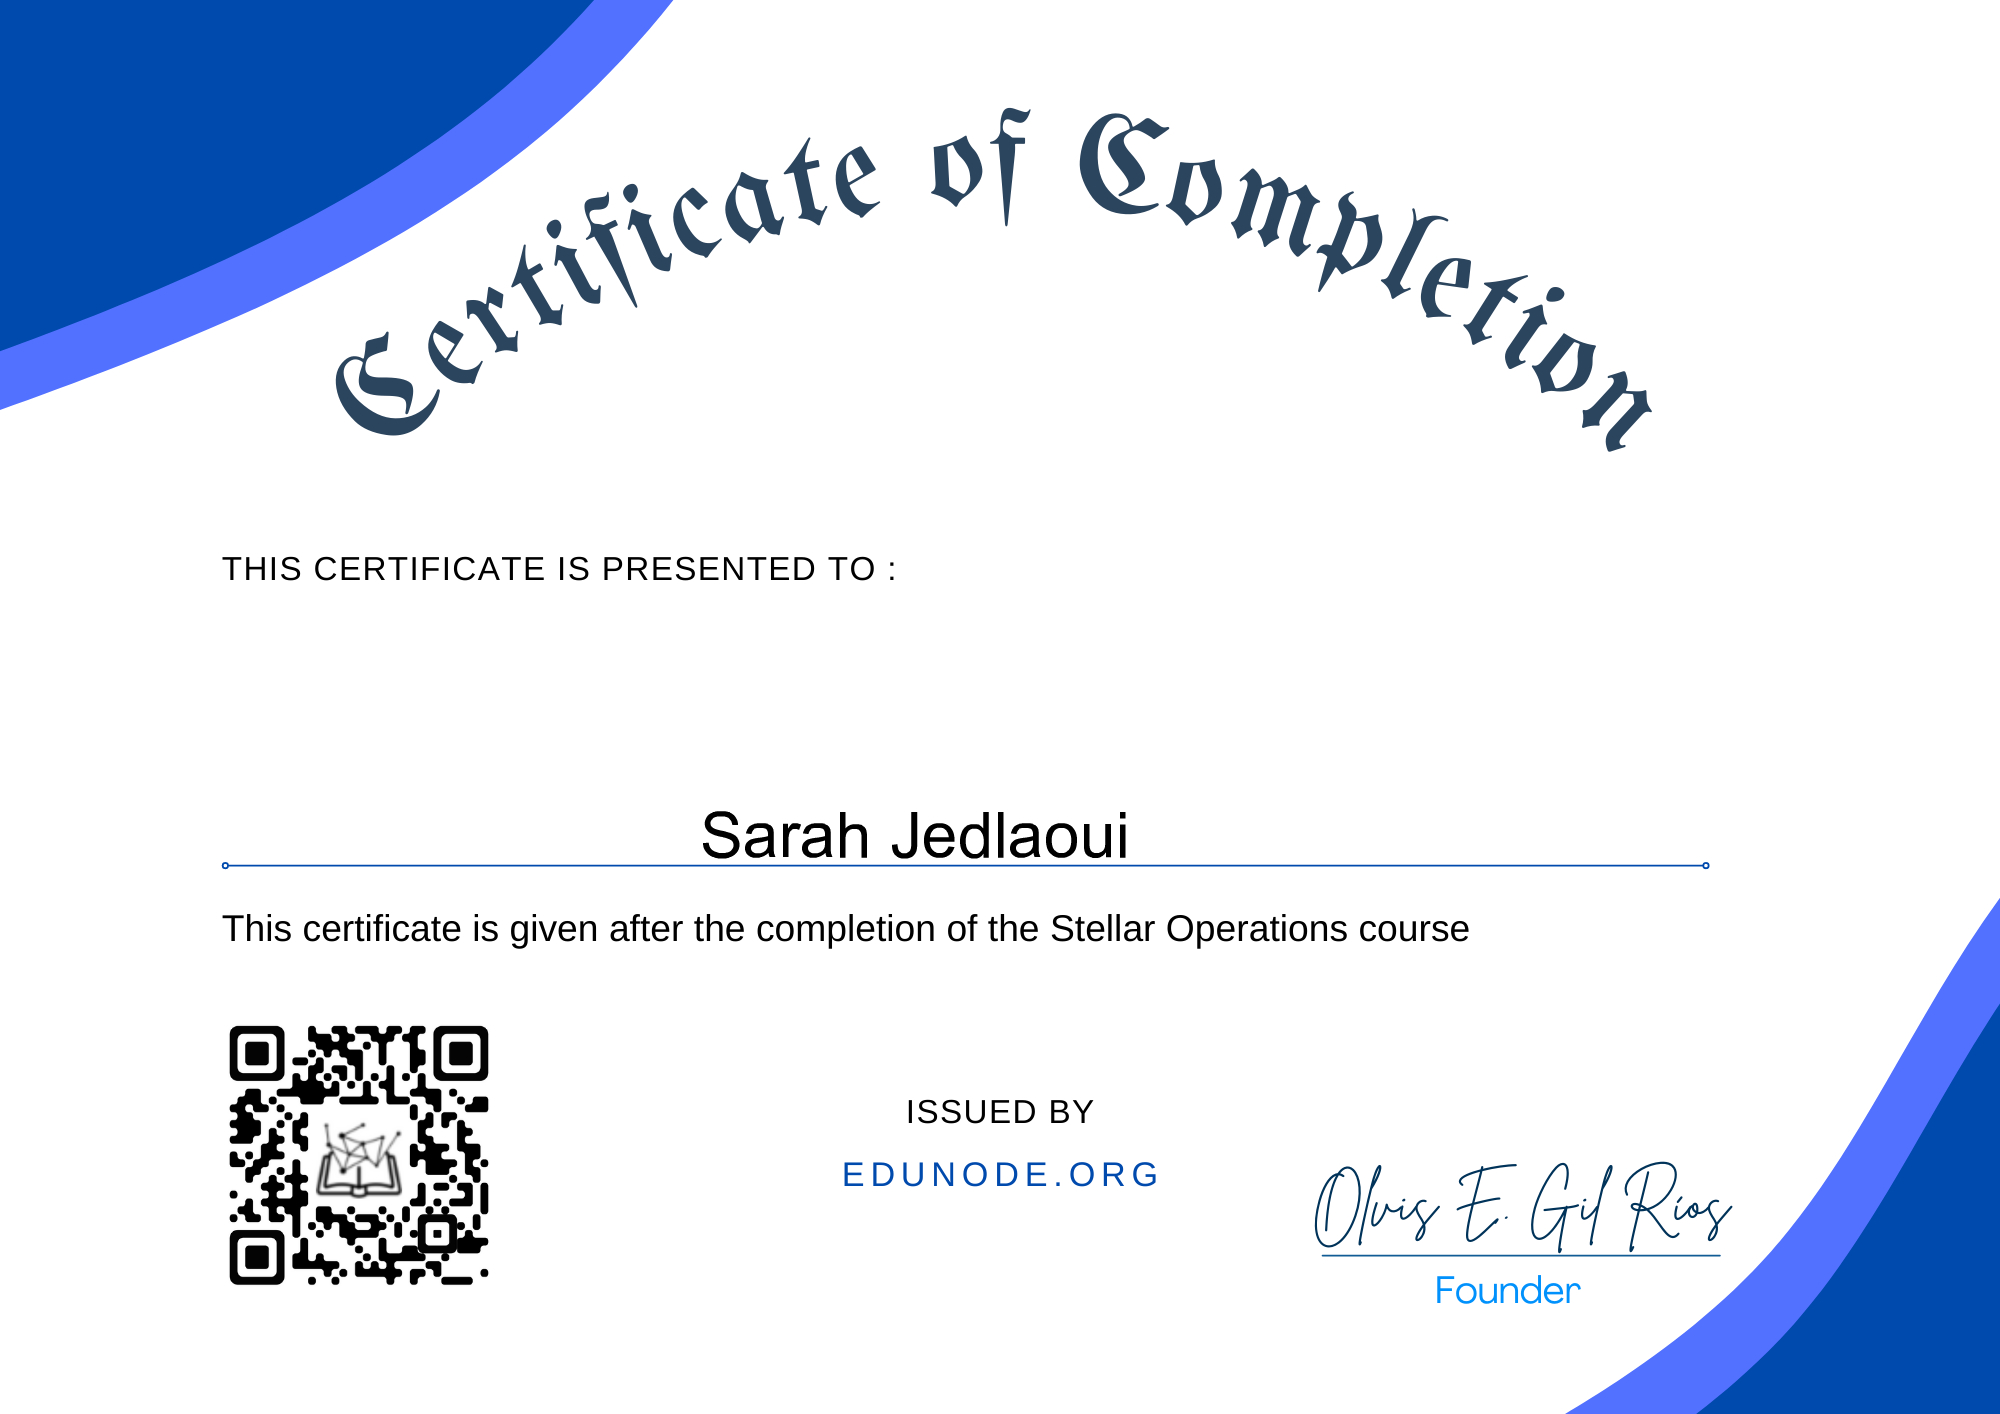
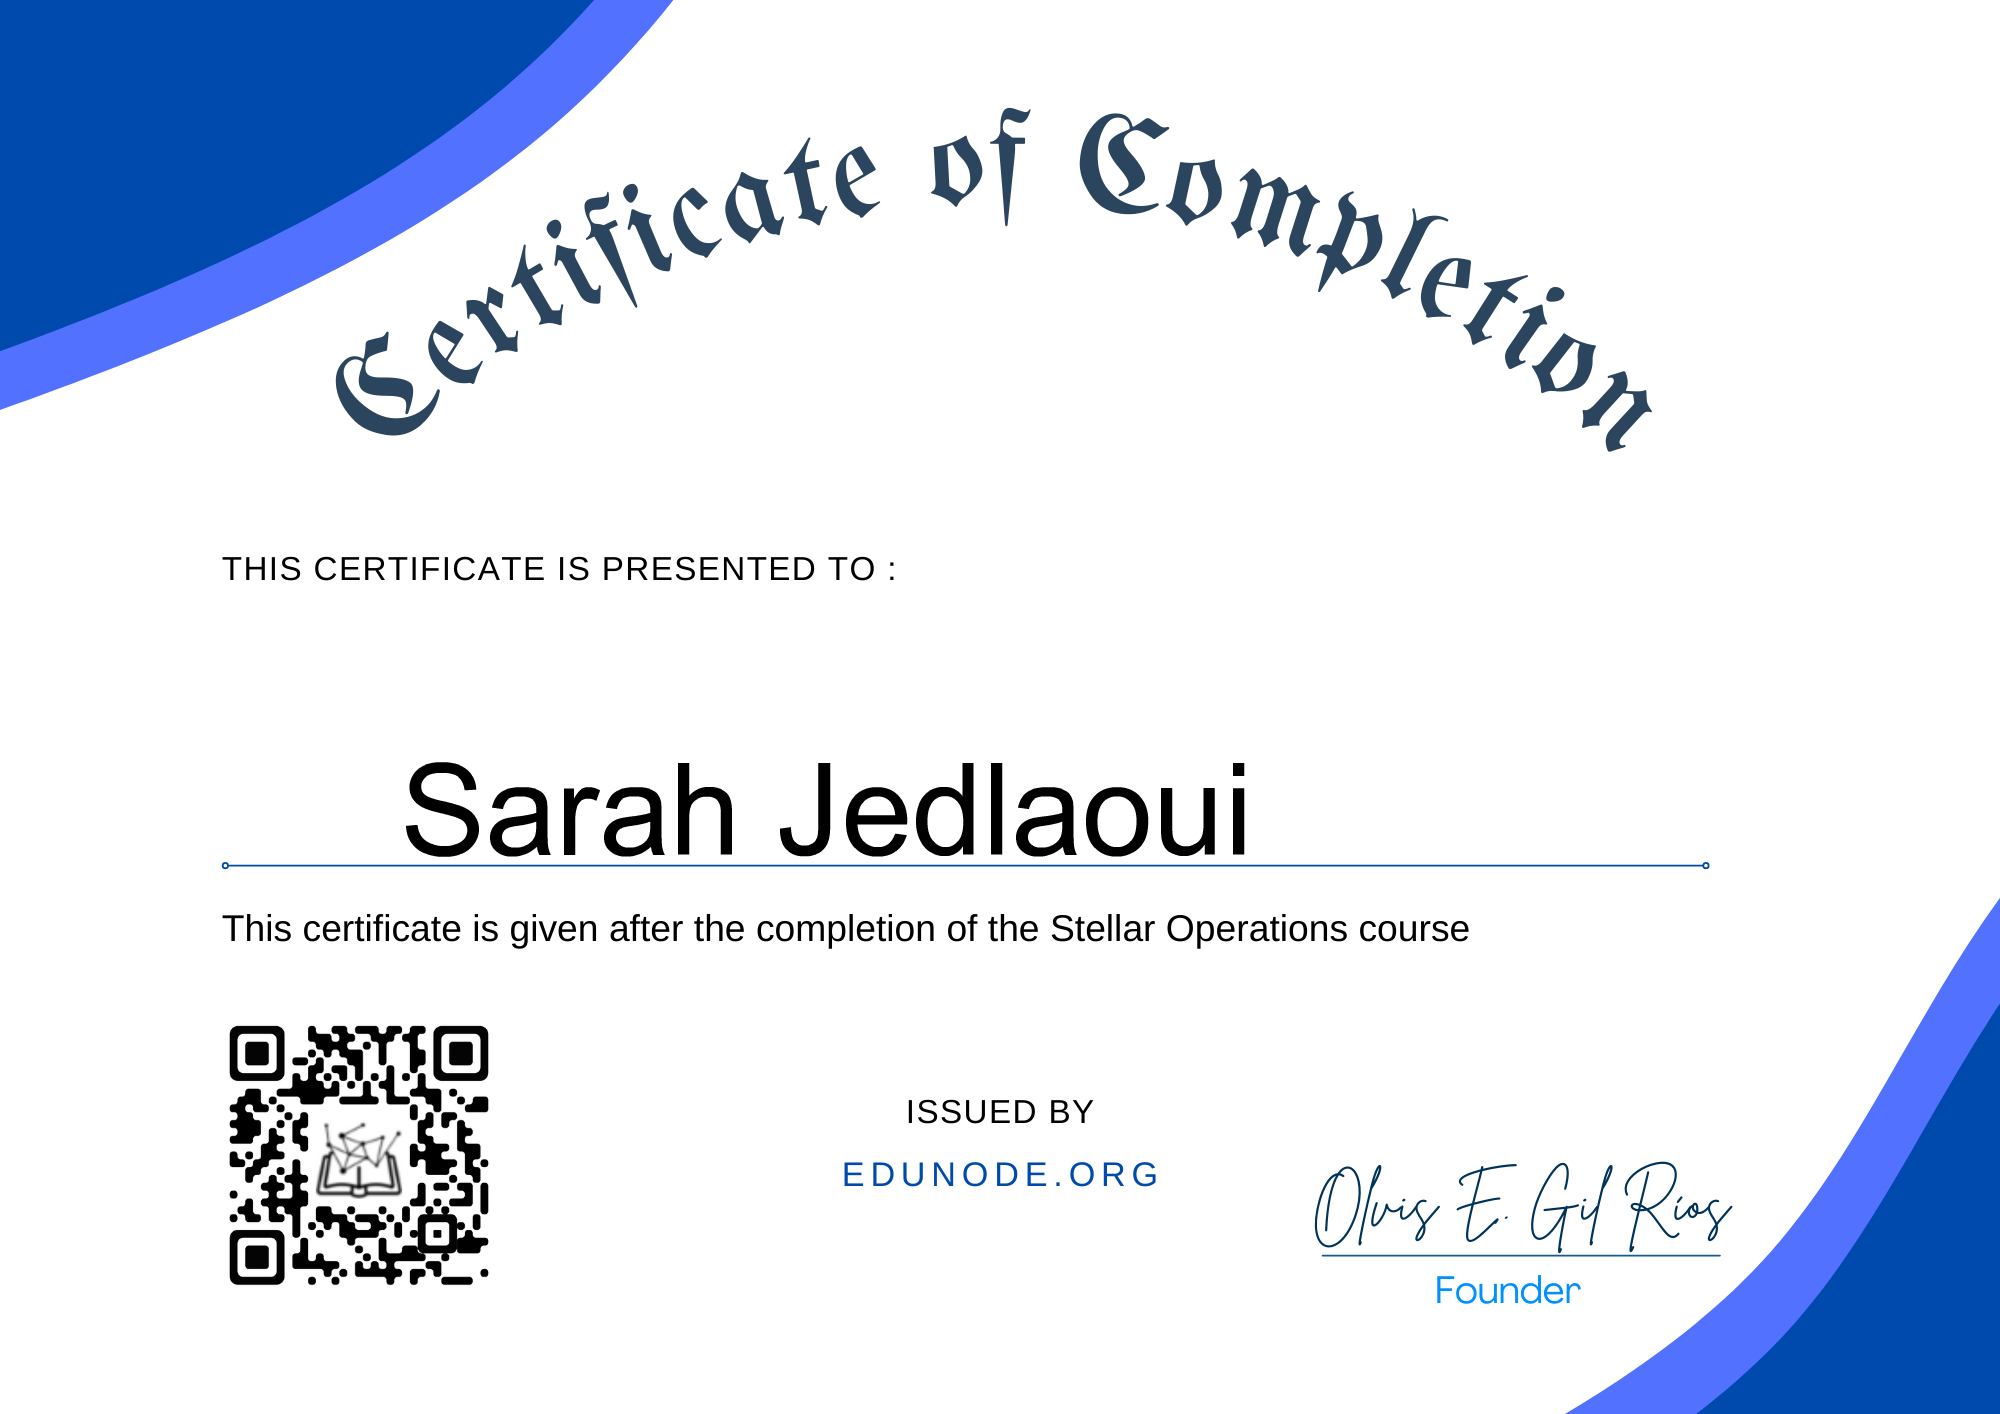
first commit

Changed region(s): [[0.186, 0.529, 0.62, 0.6223]]

diff --git a/routes/certificates.js b/routes/certificates.js
@@ -174,8 +174,8 @@ router.post("/diploma1", async (req, res) => {
     //});
     const client = new Web3Storage({ token });
     const img = await Jimp.read("operation.png");
-    const font = await Jimp.loadFont(Jimp.FONT_SANS_64_BLACK);
-    img.print(font,700, 800, req.body.name);
+    const font = await Jimp.loadFont(Jimp.FONT_SANS_128_BLACK);
+    img.print(font,400, 740, req.body.name);
     img.write("newdiplomav2.jpg"); // save
 
     const putFilesToWeb3Storage = async () => {
@@ -273,8 +273,8 @@ router.post("/diploma2", async (req, res) => {
      const token=process.env.WEBTHREE_API_TOKEN;
     const client = new Web3Storage({ token })
     const img = await Jimp.read('anchors.png')
-    const font = await Jimp.loadFont(Jimp.FONT_SANS_32_BLACK)
-    img.print(font, 150, 350, req.body.name);
+    const font = await Jimp.loadFont(Jimp.FONT_SANS_128_BLACK);
+    img.print(font,400, 740, req.body.name);
     img.write('newdiplomav2.jpg'); // save
 
     const putFilesToWeb3Storage = async () => {
@@ -378,8 +378,8 @@ router.post("/diploma3", async (req, res) => {
     
     const client = new Web3Storage({ token })
     const img = await Jimp.read('sep.png')
-    const font = await Jimp.loadFont(Jimp.FONT_SANS_32_BLACK)
-    img.print(font, 150, 350, req.body.name);
+    const font = await Jimp.loadFont(Jimp.FONT_SANS_128_BLACK);
+    img.print(font,400, 740, req.body.name);
     img.write('newdiplomav2.jpg'); // save
 
     const putFilesToWeb3Storage = async () => {
@@ -477,8 +477,8 @@ router.post("/diploma4", async (req, res) => {
 
     const client = new Web3Storage({ token })
     const img = await Jimp.read('hyperledger.png')
-    const font = await Jimp.loadFont(Jimp.FONT_SANS_64_BLACK)
-    img.print(font, 400, 500, req.body.name);
+    const font = await Jimp.loadFont(Jimp.FONT_SANS_128_BLACK);
+    img.print(font,400, 740, req.body.name);
     img.write('newdiplomav2.jpg'); // save
 
     const putFilesToWeb3Storage = async () => {
@@ -575,8 +575,8 @@ router.post("/diploma5", async (req, res) => {
 
     const client = new Web3Storage({ token })
     const img = await Jimp.read('soroban.png')
-    const font = await Jimp.loadFont(Jimp.FONT_SANS_64_BLACK)
-    img.print(font, 400, 500, req.body.name);
+    const font = await Jimp.loadFont(Jimp.FONT_SANS_128_BLACK);
+    img.print(font,400, 740, req.body.name);
     img.write('newdiplomav2.jpg'); // save
 
     const putFilesToWeb3Storage = async () => {
@@ -673,8 +673,8 @@ router.post("/diploma6", async (req, res) => {
 
     const client = new Web3Storage({ token })
     const img = await Jimp.read('euthereum.png')
-    const font = await Jimp.loadFont(Jimp.FONT_SANS_64_BLACK)
-    img.print(font, 400, 500, req.body.name);
+    const font = await Jimp.loadFont(Jimp.FONT_SANS_128_BLACK);
+    img.print(font,400, 740, req.body.name);
     img.write('newdiplomav2.jpg'); // save
 
     const putFilesToWeb3Storage = async () => {
@@ -772,8 +772,8 @@ router.post("/diploma7", async (req, res) => {
     
     const client = new Web3Storage({ token })
     const img = await Jimp.read('oracles.png')
-    const font = await Jimp.loadFont(Jimp.FONT_SANS_64_BLACK)
-    img.print(font, 400, 500, req.body.name);
+    const font = await Jimp.loadFont(Jimp.FONT_SANS_128_BLACK);
+    img.print(font,400, 740, req.body.name);
     img.write('newdiplomav2.jpg'); // save
 
     const putFilesToWeb3Storage = async () => {
